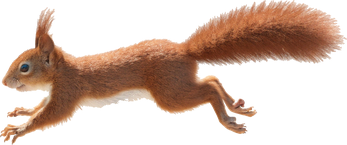
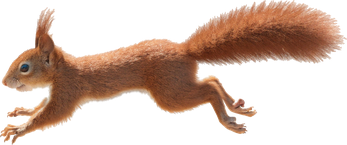
走るりすのお腹の下に残っていた白いギザギザを取る
- お腹の白っぽい毛は背景の白と見分けられず、ふつうの抜き方では白いギザギザが残っていた
- お腹の下だけ、オレンジの毛からの距離で 6px かけて消す（soft_underside）。輪郭はオレンジの毛の縁に沿う
- 走るりすは白い抜け穴の処理をしない（背中の明るい毛に小さな穴が開いていた）

diff --git a/tools/prepare_creature_art.py b/tools/prepare_creature_art.py
@@ -6,7 +6,8 @@ The originals are the eight Recraft pictures in tools/source_art/ (creature_*.pn
 
   * cuts each out of its white (cut_out from prepare_drawable_art.py), with what each needs:
       - the squirrel: its fur is mixed with the white far into the outline (the fine hairs of the
-        tail); the outline is un-mixed deeper, so that no pale haze is left round the tail;
+        tail); the outline is un-mixed deeper, so that no pale haze is left round the tail. The
+        running one's cream belly fades into the white: it is let go softly (soft_underside);
       - the bird: its tail, cheeks and belly are white or nearly; only plain white goes, and no
         white pockets are taken out of it;
       - the bird: also the plain white shut in between its legs (without_white_pockets);
@@ -136,8 +137,46 @@ def without_white_pockets(rgb: np.ndarray, cut: np.ndarray, pocket: int = 4) -> 
     return out.astype(np.uint8)
 
 
+def soft_underside(rgb: np.ndarray, cut: np.ndarray, box, dark: int = 150, full: int = 1, gone: int = 6) -> np.ndarray:
+    """[cut] with the pale fur of the underside, inside [box] (pixels on the original), let go softly.
+
+    The running squirrel's belly is a light cream (its darkest channel 180 to 210) that fades into
+    the white behind it: the usual cut took part of it for background and left a ragged white band.
+    Here the pale fur is faded by its distance from the darker fur above it, whole up to [full]
+    pixels from it and gone by [gone], so that the outline follows the smooth edge of the orange fur.
+    Nothing that was background comes back.
+    """
+    v = rgb.astype(float)
+    mn = v.min(axis=2)
+    x0, y0, x1, y1 = box
+    zone = np.zeros(mn.shape, bool)
+    zone[y0:y1, x0:x1] = True
+    body = (mn < dark) & (cut[:, :, 3] > 0)
+    distance = np.full(mn.shape, float(gone + 1))
+    distance[body] = 0.0
+    reach = body.copy()
+    for step in range(1, gone + 1):
+        grown = dilate(reach, 1)
+        distance[grown & ~reach] = step
+        reach = grown
+    pale = zone & ~body & (cut[:, :, 3] > 0)
+    fade = np.clip(1.0 - (distance - full) / (gone - full), 0.0, 1.0)
+    out = cut.astype(float)
+    out[pale, 3] = np.minimum(out[pale, 3], 255.0 * fade[pale])
+    # A shade darker, so that what is left of it does not glow against a dark ground.
+    out[pale, :3] = v[pale] * 0.92
+    return out.astype(np.uint8)
+
+
+#: The running squirrel's underside, from its chest to its hind leg, on the original (pixels).
+RUN_UNDERSIDE = (230, 520, 650, 615)
+
+
 def cut(name: str) -> np.ndarray:
     rgb = source(name)
+    if name == "squirrel_run":
+        # No white pockets in the fur: its bright highlights are not background (#71).
+        return soft_underside(rgb, cut_out(rgb, edge=14, solid=120.0, pocket=60), RUN_UNDERSIDE)
     if name.startswith("squirrel"):
         return cut_out(rgb, edge=14, solid=120.0)
     if name.startswith("bird"):

diff --git a/docs/ASSETS.md b/docs/ASSETS.md
@@ -169,7 +169,7 @@
   ちょうちょ・とんぼは胴の中心線で切り、羽は胴の下の部分も持つ（羽をたたむと胴の下に寄り、すき間が開かない）。横方向に縮めて開閉する（`VisitorLook.wingOpen`）。
   飛ぶことりは胴の輪郭を手で決めて（`BIRD_BODY`）翼を切り出し、付け根を軸に下へ回して羽ばたく。羽は胴の後ろに描く。図鑑のちょうちょ・とんぼは切り分ける前の 1 枚を出す。
 - **大きさ**：りす（座る姿の高さ）・ことり・かえる・ちょうちょ・とんぼ（幅）0.2 マス、てんとうむし（幅）0.075 マス（`SIZES`）。
-- **切り抜きで気をつけたところ**：りすの毛先は輪郭から 14px まで白と分けた（白いもやを残さない）。ことりは白い尾・頬・お腹を残すため、真っ白（244 以上）だけを背景にし、足のあいだの白は別に抜いた。
+- **切り抜きで気をつけたところ**：りすの毛先は輪郭から 14px まで白と分けた（白いもやを残さない）。走るりすのお腹の白っぽい毛は背景の白と見分けられず、ふつうの抜き方では白いギザギザが残ったので、お腹の下だけ、オレンジの毛からの距離で 6px かけて消している（`soft_underside`。輪郭はオレンジの毛の縁に沿う）。ことりは白い尾・頬・お腹を残すため、真っ白（244 以上）だけを背景にし、足のあいだの白は別に抜いた。
   とんぼの羽の膜は青みのある白（228〜251）で、背景（253 以上）と分けて不透明度 0.3 以上の半透明で残した。かえるの淡い指先とてんとうむしの細い脚はふつうの抜き方で残る。
 
 ## 原画（`tools/source_art/`）

diff --git a/docs/ASSET_LEDGER.md b/docs/ASSET_LEDGER.md
@@ -114,7 +114,7 @@
 | ちょうちょ | `creature_butterfly` | Recraft（#71）。真上から見た姿。胴（`_body`）と左右の羽（`_wing_left` `_wing_right`）に切り分けて羽ばたかせる | ✅ |
 | てんとうむし | `creature_ladybug` | Recraft（#71）。0.075 マス | ✅ |
 | ことり | `creature_bird` | Recraft（#71）。立つ姿と飛ぶ姿（`creature_bird_fly.png` を胴 `_fly_body` と左右の翼 `_fly_wing_left` `_fly_wing_right` に切り分け）。白い尾・頬・お腹を残すため、白の抜き方を弱くした | ✅ |
-| りす | `creature_squirrel` | Recraft（#71）。座る姿と走る姿（`creature_squirrel_run`）。しっぽの毛先は白いもやが残らないよう深めに白と分けた | ✅ |
+| りす | `creature_squirrel` | Recraft（#71）。座る姿と走る姿（`creature_squirrel_run`）。しっぽの毛先は白いもやが残らないよう深めに白と分けた。走る姿のお腹の白っぽい毛は、白いギザギザが残らないよう、お腹の下だけ柔らかく消した | ✅ |
 | かえる | `creature_frog` | Recraft（#71） | ✅ |
 | とんぼ | `creature_dragonfly` | Recraft（#71）。真上から見た姿。透明な羽は半透明（不透明度 0.3〜）で残し、脈と縁は不透明。胴と左右の羽に切り分け | ✅ |
 
